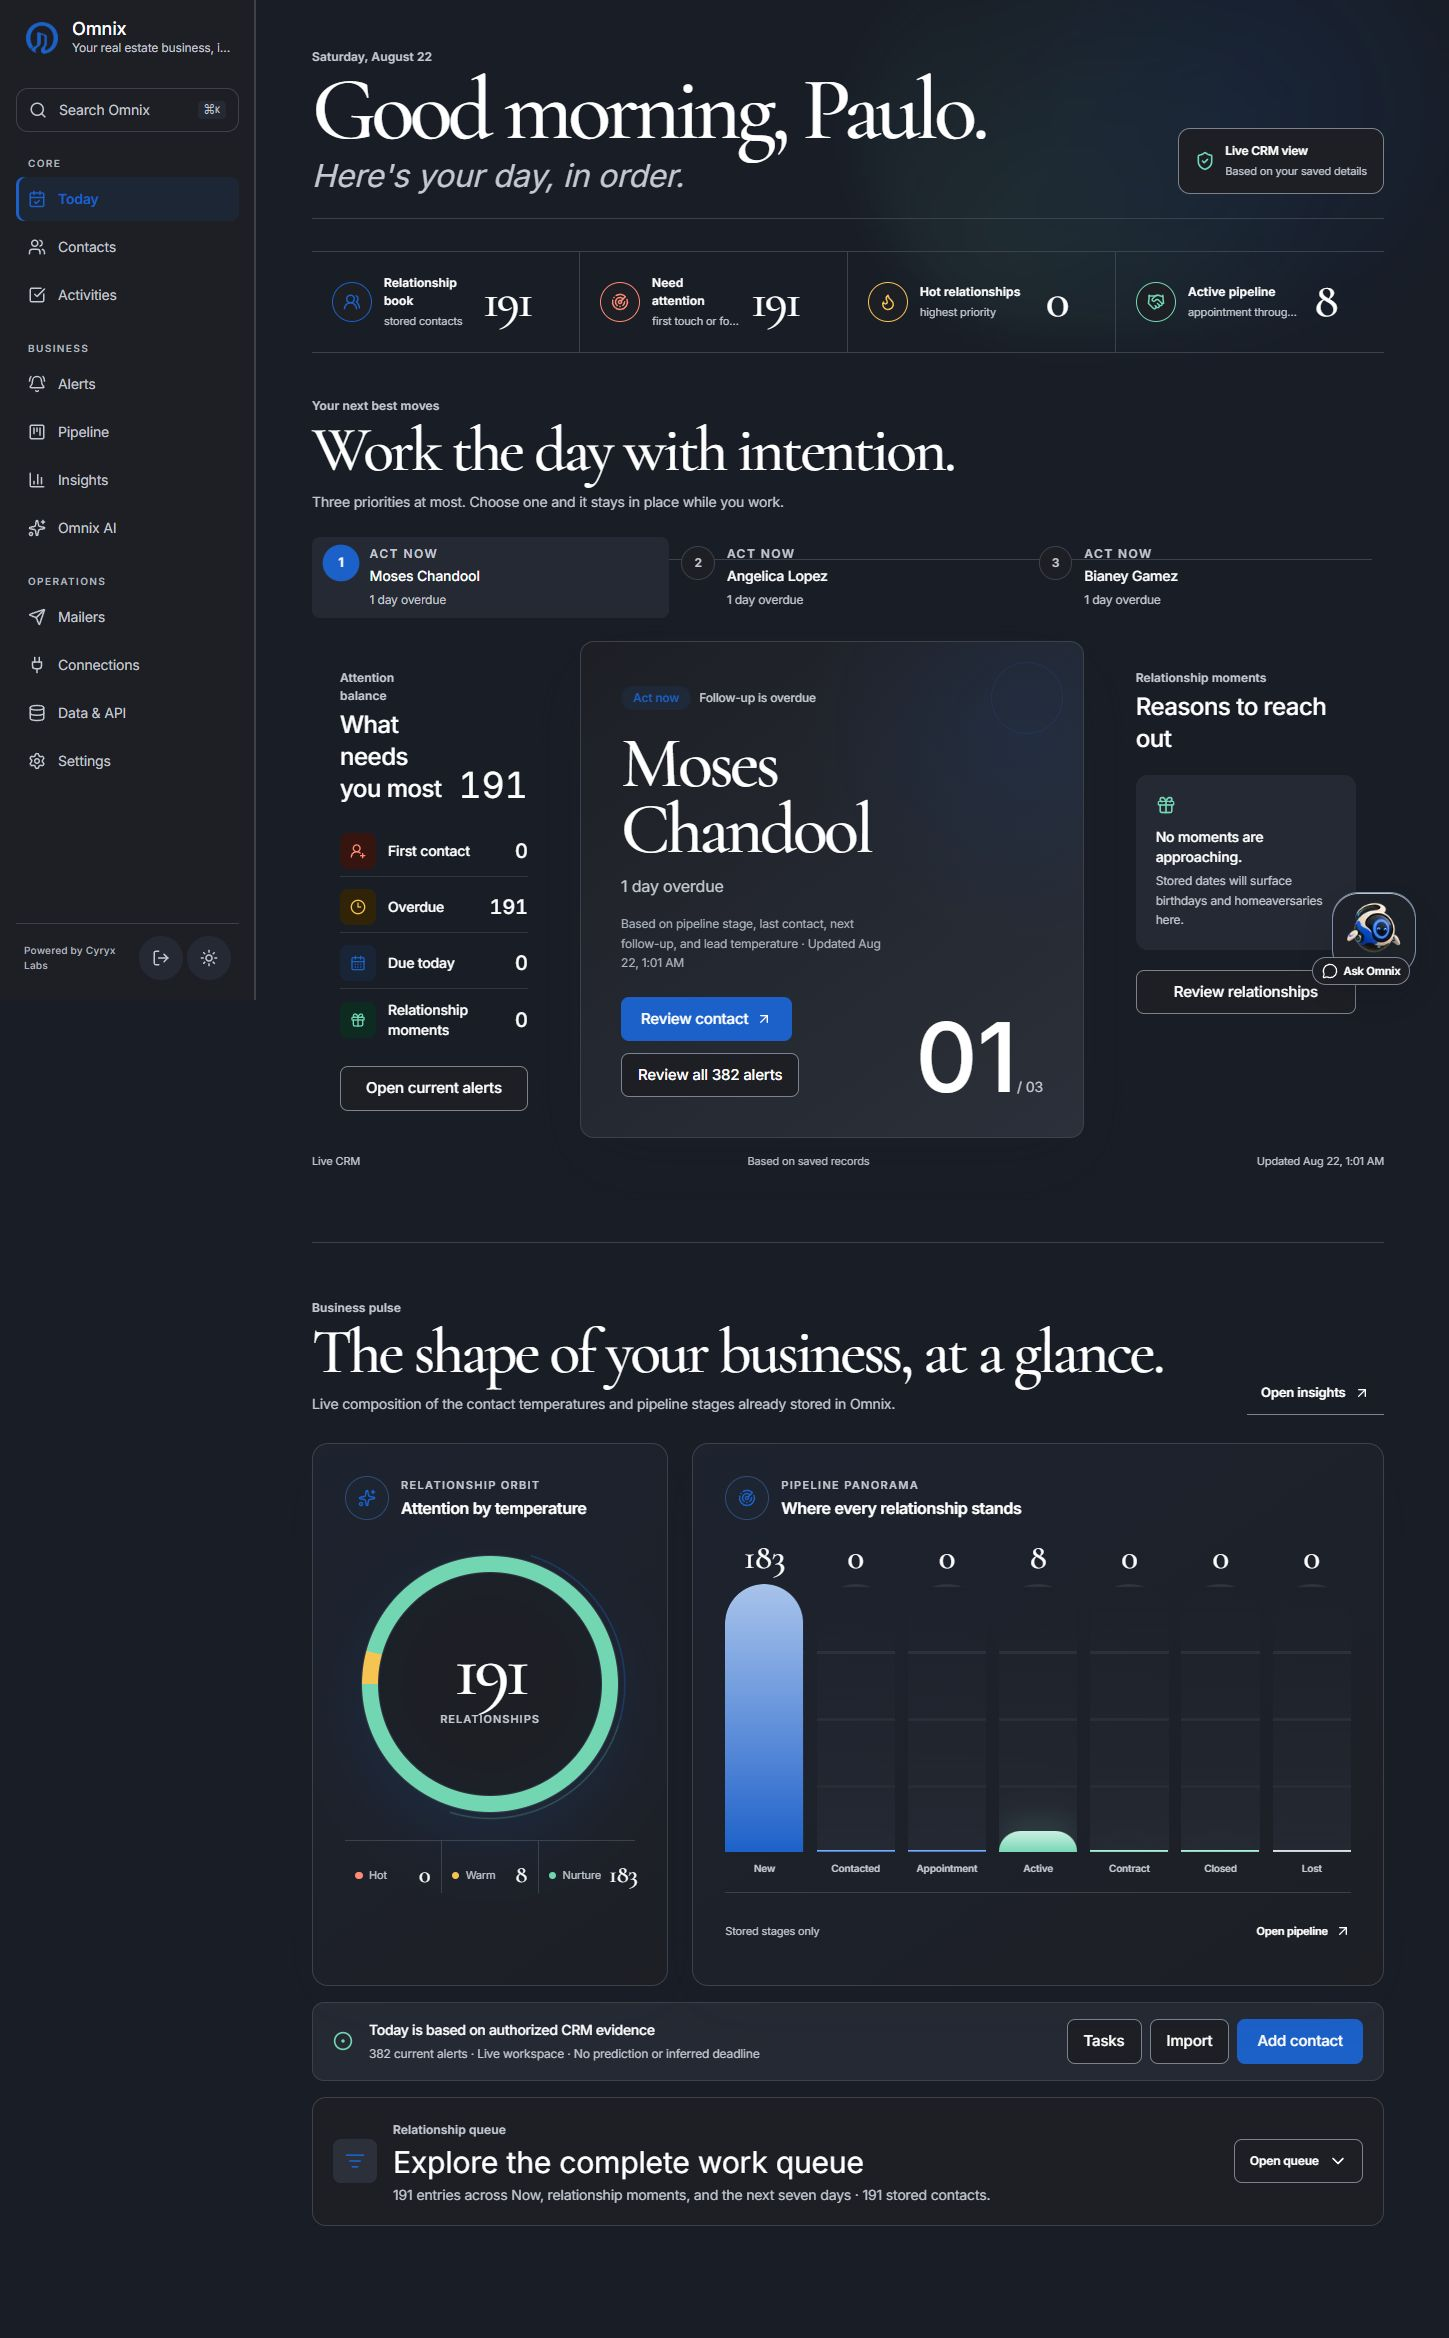
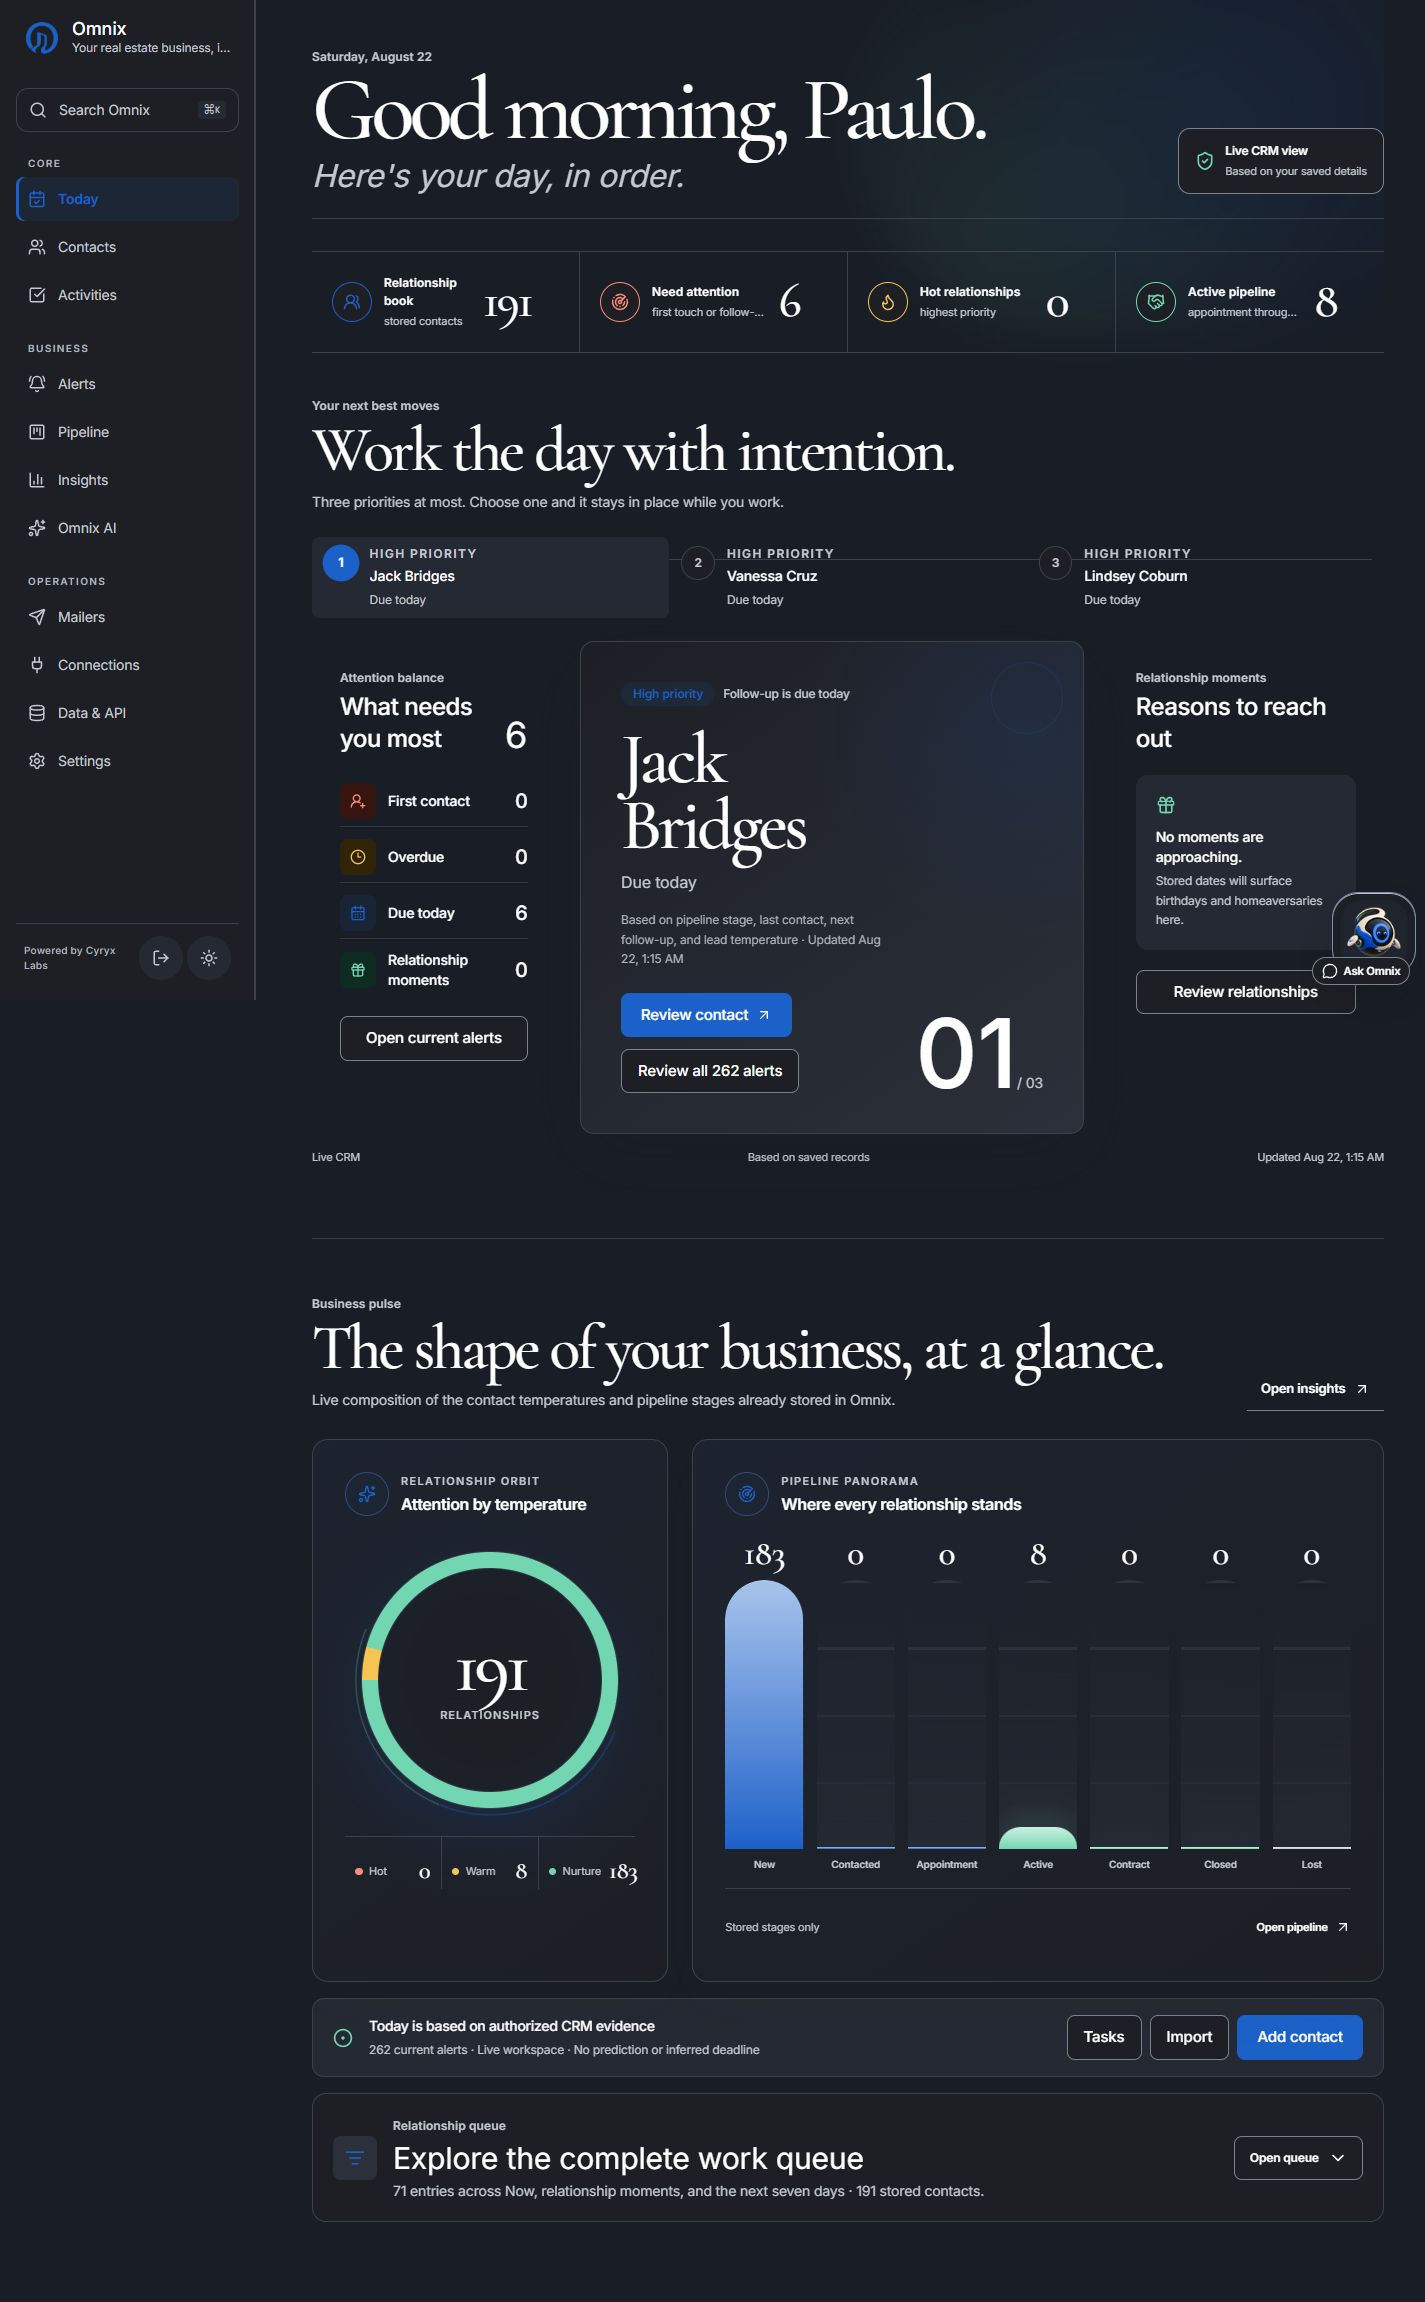
feat: release reversible contact organization

diff --git a/docs/audits/2026-08-21-launch-readiness-realtor-operations-audit.md b/docs/audits/2026-08-21-launch-readiness-realtor-operations-audit.md
@@ -72,6 +72,19 @@ The production findings above remain the launch authority until this correction 
 
 Open release gates are now: Preview/Production deployment verification, authenticated post-deploy 390/768/1440 evidence, Mailchimp provider-side completion, Judith Google consent, and the still-open durable cadence task-materialization story.
 
+## Production release evidence — 2026-08-22 01:16 ET
+
+- **Published:** GitHub `main` includes the launch baseline and responsive correction; Vercel production alias `crm-chi-teal-22.vercel.app` resolves to ready deployment `dpl_4pJXJwvCuoPN1GkWQKmfzNnWBDsQ` after Preview health/readiness passed.
+- **Applied with rollback:** dry run reported 191 eligible imported contacts (0 Hot, 8 Warm, 183 Nurture), 0 protected and 0 review exceptions. Atomic receipt `a3eaa5c1-55ab-4f14-959a-fa4c6a3d4c18` records 191 contacts, state `applied`, policy `omnix.import-classification.v1`, rollback available.
+- **Workload corrected:** Today now reports 6 due today, 0 overdue and 71 relationships across Now and the next seven days, instead of treating all 191 imported contacts as overdue.
+- **Reconciliation and duplicates:** 192 source rows remain fully accounted for as 191 added plus 1 validation quarantine; exact canonical duplicate groups remain 0 and no merge was required.
+- **Authenticated responsive evidence:** Today, Data and Connections were checked at 390/768/1440. The decorative Today overflow was corrected; measured document widths do not exceed their viewports. Evidence is stored in `docs/audits/evidence/2026-08-22-release/`.
+- **Assistant authority:** one active assistant membership exists and automated route/RLS tests pass; independent assistant-session UAT still requires that user's login.
+- **Mailchimp:** the customer-facing recovery flow is deployed, but the live provider probe says reauthorization is required. Signed webhook and baseline cannot truthfully complete until Judith reconnects her Mailchimp account.
+- **Google:** the one-click `workspace-core` flow is deployed, but Gmail and Calendar remain permission pending. Judith must consent in her Google account; developer credentials were not substituted.
+
+The CRM core and reconciled contact workload are released. Provider-owned Mailchimp/Google capabilities and the separate transaction/P&L domain must remain labeled incomplete until their external and product-definition gates close.
+
 ## Product direction after launch blockers
 
 - Add the approved property, deal, closing, commission, expense, volume and P&L domains incrementally; do not fake them from contact stages.

diff --git a/docs/stories/3.23.truthful-cadence-unified-daily-work.story.md b/docs/stories/3.23.truthful-cadence-unified-daily-work.story.md
@@ -113,7 +113,7 @@ GPT-5 Codex
 
 - `npm run lint` — PASS.
 - `npm run typecheck` — PASS.
-- `npm test` — PASS, 172 files / 781 tests.
+- `npm test` — PASS, 172 files / 784 tests.
 - `npm run build` — PASS, Next.js production build.
 
 ### Completion Notes List
@@ -124,7 +124,10 @@ GPT-5 Codex
 - Import organization v2 deterministically distributes untouched historical contacts inside their approved 7/30-day cadence window and preserves manual dates.
 - Historical organization now applies as one database transaction, stores the complete before/after snapshot, and exposes an owner-only rollback that refuses to overwrite later human edits.
 - Judith workspace reconciliation: 192 source rows = 191 created contacts + 1 validation-rejected quarantine; 0 exact canonical email groups and 0 exact canonical phone groups.
-- Remaining: durable task occurrence/materialization contract, authenticated dry-run/apply/rollback and production deployment evidence.
+- Production release `dpl_4pJXJwvCuoPN1GkWQKmfzNnWBDsQ` is live on the canonical Vercel alias; authenticated 390/768/1440 evidence has no horizontal overflow.
+- The Judith workspace dry run reported 191 eligible contacts (0 Hot, 8 Warm, 183 Nurture), 0 protected and 0 review exceptions. Atomic apply receipt `a3eaa5c1-55ab-4f14-959a-fa4c6a3d4c18` records 191 contacts and keeps rollback available.
+- The resulting Today workload changed from 191 overdue contacts to 6 due today and 0 overdue, with 71 contacts across Now and the next seven days.
+- Remaining: durable task occurrence/materialization contract, independent assistant-session UAT, Mailchimp reauthorization/webhook/baseline and Judith Google consent.
 
 ### File List
 
@@ -149,8 +152,9 @@ GPT-5 Codex
 - `packages/crm/lib/data/import-gateway.ts`
 - `packages/crm/lib/data/supabase-import-gateway.ts`
 - `packages/crm/supabase/migrations/20260822043055_reversible_imported_contact_organization.sql`
+- `packages/crm/supabase/migrations/20260822052500_workspace_admin_reversible_imports.sql`
 - `packages/crm/supabase/rollbacks/20260822043055_reversible_imported_contact_organization.rollback.sql`
 
 ## QA Results
 
-Local automated gates pass. Independent authenticated data-mutation, rollback and release review remains pending.
+Local automated gates, production promotion, authenticated owner/developer dry-run and atomic apply pass. Rollback is available and intentionally not exercised over the live 191-contact result. Independent assistant-session and provider-owned authorization/UAT remain pending.
